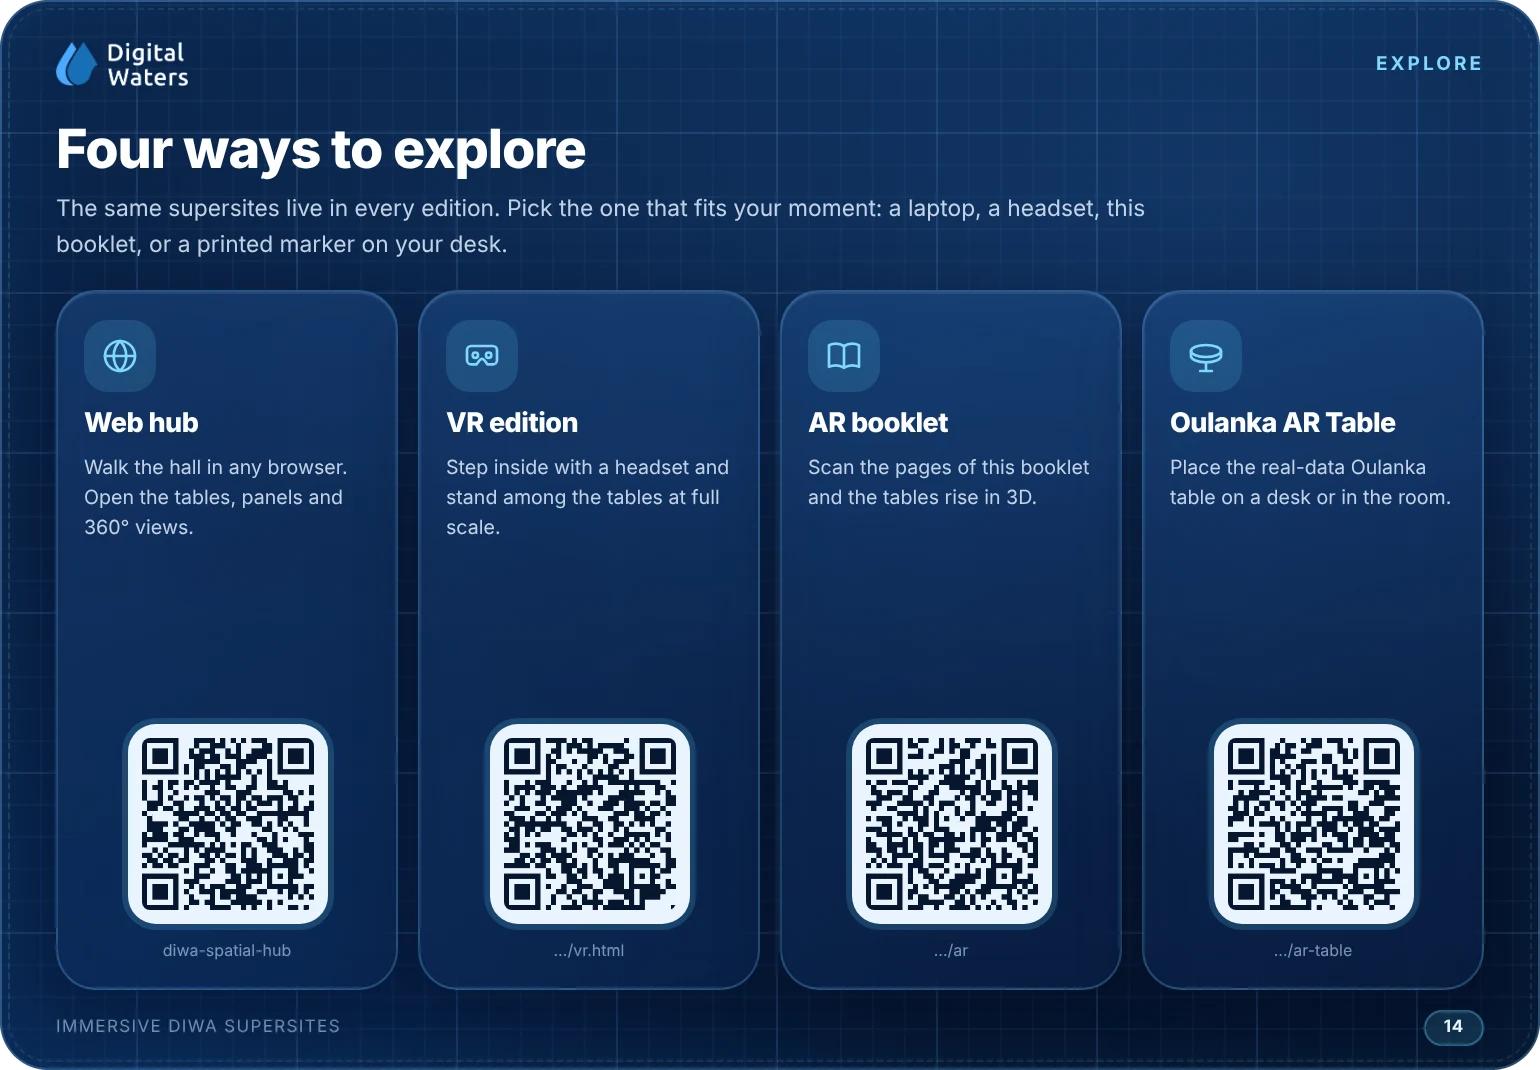
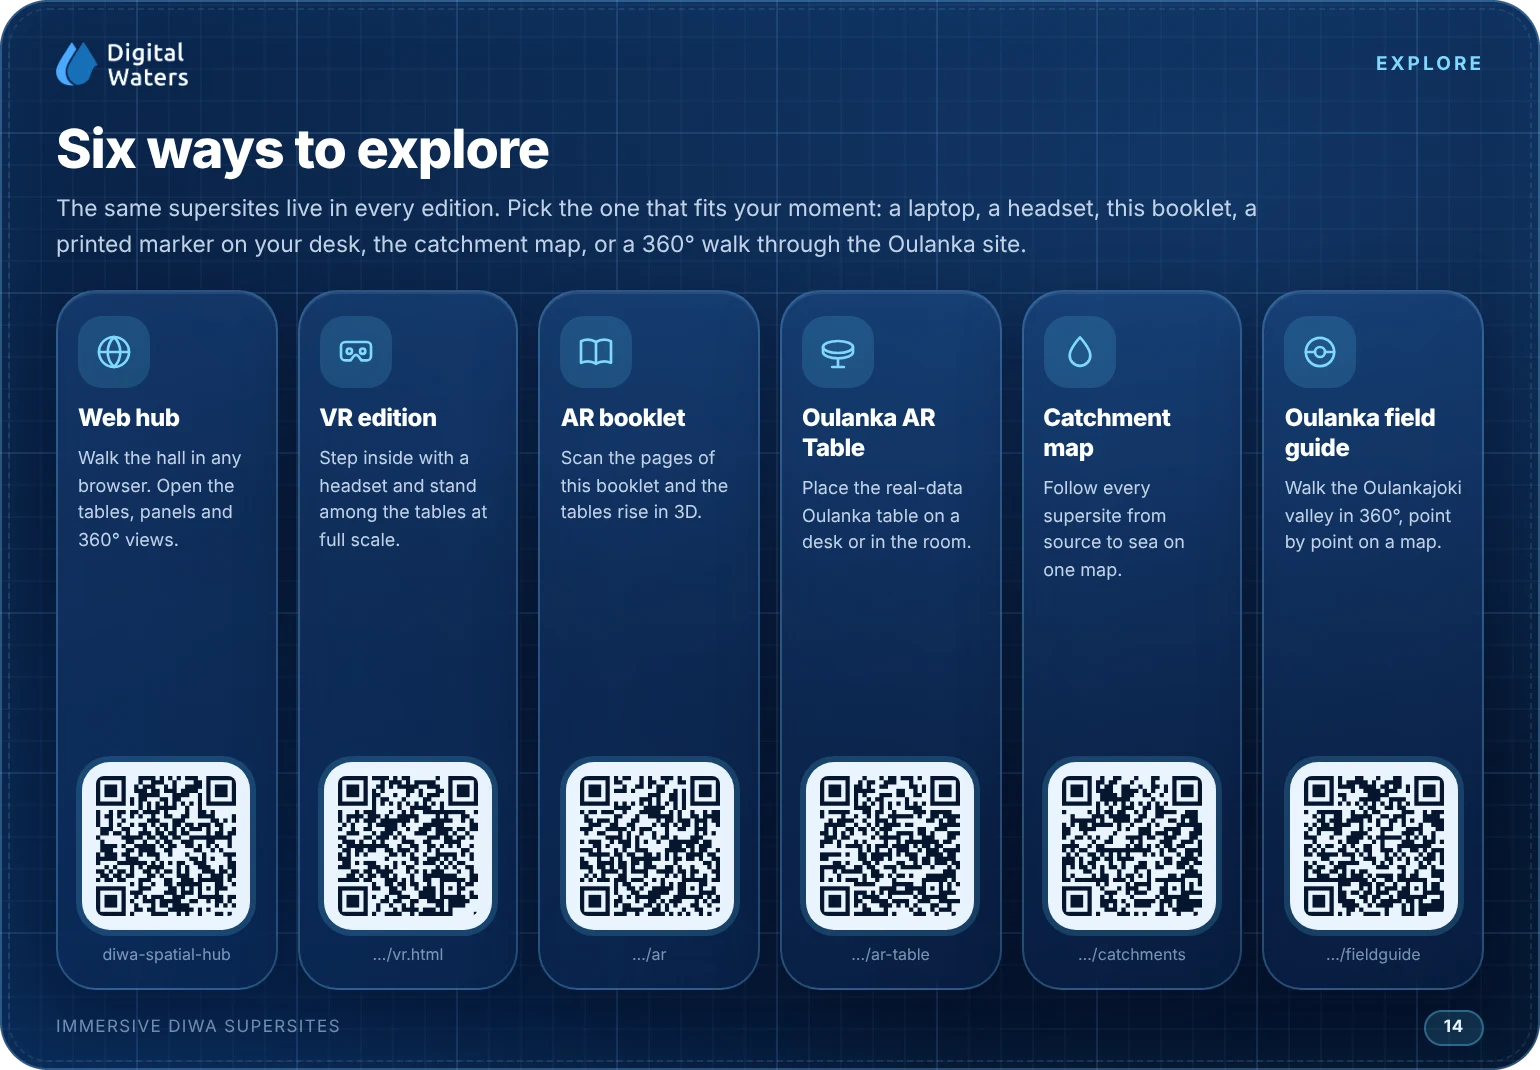
Add files via upload

Changed region(s): [[0.0312, 0.2159, 0.9662, 0.9252], [0.0312, 0.1234, 0.4052, 0.185], [0.7481, 0.185, 0.8104, 0.2159]]

diff --git a/flipbook/index.html b/flipbook/index.html
@@ -68,7 +68,7 @@ body.zoom{cursor:zoom-out}
  <a class="brand glass" href="../" style="text-decoration:none;color:#eaf4ff;font-size:12px;font-weight:600;padding:12px 16px">Enter the hub ↗</a>
 </div>
 <div id="hint" class="glass">Drag a page corner, swipe, or use the arrow keys</div>
-<div id="stage"><div id="wrap"><div id="book"><div class="page" data-density="hard"><img class="pi" src="p01.webp" alt="Page 1: Cover" draggable="false"><a class="hs d3" href="../ar/?site=oulanka" target="_blank" rel="noopener" title="Open this table in 3D" style="left:48.57%;top:14.58%;width:48.31%;height:69.53%"></a></div><div class="page"><img class="pi" src="p02.webp" alt="Page 2: Introduction" draggable="false"><a class="hs qr" href="../ar/" target="_blank" rel="noopener" title="Open link" style="left:66.36%;top:75.51%;width:9.61%;height:13.83%"></a></div><div class="page"><img class="pi" src="p03.webp" alt="Page 3: The supersites" draggable="false"></div><div class="page"><img class="pi" src="p04.webp" alt="Page 4: Oulankajoki" loading="lazy" draggable="false"><a class="hs d3" href="../ar/?site=oulanka" target="_blank" rel="noopener" title="Open this table in 3D" style="left:49.61%;top:11.21%;width:46.75%;height:74.77%"></a></div><div class="page"><img class="pi" src="p05.webp" alt="Page 5: Inside the table" loading="lazy" draggable="false"><a class="hs qr" href="../ar-table/" target="_blank" rel="noopener" title="Open link" style="left:70.26%;top:77.76%;width:8.57%;height:12.34%"></a></div><div class="page"><img class="pi" src="p06.webp" alt="Page 6: Tana River" loading="lazy" draggable="false"><a class="hs d3" href="../ar/?site=tana" target="_blank" rel="noopener" title="Open this table in 3D" style="left:49.61%;top:11.21%;width:46.75%;height:74.77%"></a></div><div class="page"><img class="pi" src="p07.webp" alt="Page 7: Pallas" loading="lazy" draggable="false"><a class="hs d3" href="../ar/?site=pallas" target="_blank" rel="noopener" title="Open this table in 3D" style="left:3.64%;top:11.21%;width:46.75%;height:74.77%"></a></div><div class="page"><img class="pi" src="p08.webp" alt="Page 8: Sodankylä" loading="lazy" draggable="false"><a class="hs d3" href="../ar/?site=sodankyla" target="_blank" rel="noopener" title="Open this table in 3D" style="left:49.61%;top:11.21%;width:46.75%;height:74.77%"></a></div><div class="page"><img class="pi" src="p09.webp" alt="Page 9: Kemijoki" loading="lazy" draggable="false"><a class="hs d3" href="../ar/?site=kemijoki" target="_blank" rel="noopener" title="Open this table in 3D" style="left:3.64%;top:11.21%;width:46.75%;height:74.77%"></a></div><div class="page"><img class="pi" src="p10.webp" alt="Page 10: Oulu Region" loading="lazy" draggable="false"><a class="hs d3" href="../ar/?site=osp" target="_blank" rel="noopener" title="Open this table in 3D" style="left:49.61%;top:11.21%;width:46.75%;height:74.77%"></a></div><div class="page"><img class="pi" src="p11.webp" alt="Page 11: Kokkola" loading="lazy" draggable="false"><a class="hs d3" href="../ar/?site=kokkola" target="_blank" rel="noopener" title="Open this table in 3D" style="left:3.64%;top:11.21%;width:46.75%;height:74.77%"></a></div><div class="page"><img class="pi" src="p12.webp" alt="Page 12: Archipelago Sea" loading="lazy" draggable="false"><a class="hs d3" href="../ar/?site=archipelago" target="_blank" rel="noopener" title="Open this table in 3D" style="left:49.61%;top:11.21%;width:46.75%;height:74.77%"></a></div><div class="page"><img class="pi" src="p13.webp" alt="Page 13: Vantaanjoki" loading="lazy" draggable="false"><a class="hs d3" href="../ar/?site=vantaanjoki" target="_blank" rel="noopener" title="Open this table in 3D" style="left:3.64%;top:11.21%;width:46.75%;height:74.77%"></a></div><div class="page"><img class="pi" src="p14.webp" alt="Page 14: Explore" loading="lazy" draggable="false"><a class="hs qr" href="../" target="_blank" rel="noopener" title="Open link" style="left:8.25%;top:67.66%;width:12.99%;height:18.69%"></a><a class="hs qr" href="../vr.html" target="_blank" rel="noopener" title="Open link" style="left:31.75%;top:67.66%;width:12.99%;height:18.69%"></a><a class="hs qr" href="../ar/" target="_blank" rel="noopener" title="Open link" style="left:55.26%;top:67.66%;width:12.99%;height:18.69%"></a><a class="hs qr" href="../ar-table/" target="_blank" rel="noopener" title="Open link" style="left:78.77%;top:67.66%;width:12.99%;height:18.69%"></a></div><div class="page"><img class="pi" src="p15.webp" alt="Page 15: Architecture" loading="lazy" draggable="false"></div><div class="page" data-density="hard"><img class="pi" src="p16.webp" alt="Page 16: Back cover" loading="lazy" draggable="false"><a class="hs qr" href="../" target="_blank" rel="noopener" title="Open link" style="left:25.22%;top:53.46%;width:9.35%;height:13.46%"></a><a class="hs qr" href="./" target="_blank" rel="noopener" title="Open link" style="left:53.42%;top:53.46%;width:9.35%;height:13.46%"></a></div></div></div></div>
+<div id="stage"><div id="wrap"><div id="book"><div class="page" data-density="hard"><img class="pi" src="p01.webp" alt="Page 1: Cover" draggable="false"><a class="hs d3" href="../ar/?site=oulanka" target="_blank" rel="noopener" title="Open this table in 3D" style="left:48.61%;top:16.10%;width:46.85%;height:66.55%"></a></div><div class="page"><img class="pi" src="p02.webp" alt="Page 2: Introduction" draggable="false"><a class="hs qr" href="../ar/" target="_blank" rel="noopener" title="Open link" style="left:65.87%;top:74.42%;width:9.32%;height:13.24%"></a></div><div class="page"><img class="pi" src="p03.webp" alt="Page 3: The supersites" draggable="false"></div><div class="page"><img class="pi" src="p04.webp" alt="Page 4: Oulankajoki" loading="lazy" draggable="false"><a class="hs d3" href="../ar/?site=oulanka" target="_blank" rel="noopener" title="Open this table in 3D" style="left:49.62%;top:12.88%;width:45.34%;height:71.56%"></a></div><div class="page"><img class="pi" src="p05.webp" alt="Page 5: Inside the table" loading="lazy" draggable="false"><a class="hs qr" href="../ar-table/" target="_blank" rel="noopener" title="Open link" style="left:69.65%;top:76.57%;width:8.31%;height:11.81%"></a></div><div class="page"><img class="pi" src="p06.webp" alt="Page 6: Tana River" loading="lazy" draggable="false"><a class="hs d3" href="../ar/?site=tana" target="_blank" rel="noopener" title="Open this table in 3D" style="left:49.62%;top:12.88%;width:45.34%;height:71.56%"></a></div><div class="page"><img class="pi" src="p07.webp" alt="Page 7: Pallas" loading="lazy" draggable="false"><a class="hs d3" href="../ar/?site=pallas" target="_blank" rel="noopener" title="Open this table in 3D" style="left:5.04%;top:12.88%;width:45.34%;height:71.56%"></a></div><div class="page"><img class="pi" src="p08.webp" alt="Page 8: Sodankylä" loading="lazy" draggable="false"><a class="hs d3" href="../ar/?site=sodankyla" target="_blank" rel="noopener" title="Open this table in 3D" style="left:49.62%;top:12.88%;width:45.34%;height:71.56%"></a></div><div class="page"><img class="pi" src="p09.webp" alt="Page 9: Kemijoki" loading="lazy" draggable="false"><a class="hs d3" href="../ar/?site=kemijoki" target="_blank" rel="noopener" title="Open this table in 3D" style="left:5.04%;top:12.88%;width:45.34%;height:71.56%"></a></div><div class="page"><img class="pi" src="p10.webp" alt="Page 10: Oulu Region" loading="lazy" draggable="false"><a class="hs d3" href="../ar/?site=osp" target="_blank" rel="noopener" title="Open this table in 3D" style="left:49.62%;top:12.88%;width:45.34%;height:71.56%"></a></div><div class="page"><img class="pi" src="p11.webp" alt="Page 11: Kokkola" loading="lazy" draggable="false"><a class="hs d3" href="../ar/?site=kokkola" target="_blank" rel="noopener" title="Open this table in 3D" style="left:5.04%;top:12.88%;width:45.34%;height:71.56%"></a></div><div class="page"><img class="pi" src="p12.webp" alt="Page 12: Archipelago Sea" loading="lazy" draggable="false"><a class="hs d3" href="../ar/?site=archipelago" target="_blank" rel="noopener" title="Open this table in 3D" style="left:49.62%;top:12.88%;width:45.34%;height:71.56%"></a></div><div class="page"><img class="pi" src="p13.webp" alt="Page 13: Vantaanjoki" loading="lazy" draggable="false"><a class="hs d3" href="../ar/?site=vantaanjoki" target="_blank" rel="noopener" title="Open this table in 3D" style="left:5.04%;top:12.88%;width:45.34%;height:71.56%"></a></div><div class="page"><img class="pi" src="p14.webp" alt="Page 14: Explore" loading="lazy" draggable="false"><a class="hs qr" href="../" target="_blank" rel="noopener" title="Open link" style="left:6.72%;top:70.30%;width:10.58%;height:15.03%"></a><a class="hs qr" href="../vr.html" target="_blank" rel="noopener" title="Open link" style="left:21.91%;top:70.30%;width:10.58%;height:15.03%"></a><a class="hs qr" href="../ar/" target="_blank" rel="noopener" title="Open link" style="left:37.11%;top:70.30%;width:10.58%;height:15.03%"></a><a class="hs qr" href="../ar-table/" target="_blank" rel="noopener" title="Open link" style="left:52.31%;top:70.30%;width:10.58%;height:15.03%"></a><a class="hs qr" href="../catchments/" target="_blank" rel="noopener" title="Open link" style="left:67.50%;top:70.30%;width:10.58%;height:15.03%"></a><a class="hs qr" href="../fieldguide/" target="_blank" rel="noopener" title="Open link" style="left:82.70%;top:70.30%;width:10.58%;height:15.03%"></a></div><div class="page"><img class="pi" src="p15.webp" alt="Page 15: Architecture" loading="lazy" draggable="false"></div><div class="page" data-density="hard"><img class="pi" src="p16.webp" alt="Page 16: Back cover" loading="lazy" draggable="false"><a class="hs qr" href="../" target="_blank" rel="noopener" title="Open link" style="left:25.96%;top:53.31%;width:9.07%;height:12.88%"></a><a class="hs qr" href="./" target="_blank" rel="noopener" title="Open link" style="left:53.32%;top:53.31%;width:9.07%;height:12.88%"></a></div></div></div></div>
 <button class="nav glass" id="prevB" aria-label="Previous page"><svg width="22" height="22" viewBox="0 0 24 24" fill="none" stroke="currentColor" stroke-width="1.8" stroke-linecap="round" stroke-linejoin="round"><path d="M15 5l-7 7 7 7"/></svg></button>
 <button class="nav glass" id="nextB" aria-label="Next page"><svg width="22" height="22" viewBox="0 0 24 24" fill="none" stroke="currentColor" stroke-width="1.8" stroke-linecap="round" stroke-linejoin="round"><path d="M9 5l7 7-7 7"/></svg></button>
 <div id="thumbs" class="glass"><button><img src="t01.webp" alt="" loading="lazy"><span>01 · Cover</span></button><button><img src="t02.webp" alt="" loading="lazy"><span>02 · Introduction</span></button><button><img src="t03.webp" alt="" loading="lazy"><span>03 · The supersites</span></button><button><img src="t04.webp" alt="" loading="lazy"><span>04 · Oulankajoki</span></button><button><img src="t05.webp" alt="" loading="lazy"><span>05 · Inside the table</span></button><button><img src="t06.webp" alt="" loading="lazy"><span>06 · Tana River</span></button><button><img src="t07.webp" alt="" loading="lazy"><span>07 · Pallas</span></button><button><img src="t08.webp" alt="" loading="lazy"><span>08 · Sodankylä</span></button><button><img src="t09.webp" alt="" loading="lazy"><span>09 · Kemijoki</span></button><button><img src="t10.webp" alt="" loading="lazy"><span>10 · Oulu Region</span></button><button><img src="t11.webp" alt="" loading="lazy"><span>11 · Kokkola</span></button><button><img src="t12.webp" alt="" loading="lazy"><span>12 · Archipelago Sea</span></button><button><img src="t13.webp" alt="" loading="lazy"><span>13 · Vantaanjoki</span></button><button><img src="t14.webp" alt="" loading="lazy"><span>14 · Explore</span></button><button><img src="t15.webp" alt="" loading="lazy"><span>15 · Architecture</span></button><button><img src="t16.webp" alt="" loading="lazy"><span>16 · Back cover</span></button></div>
